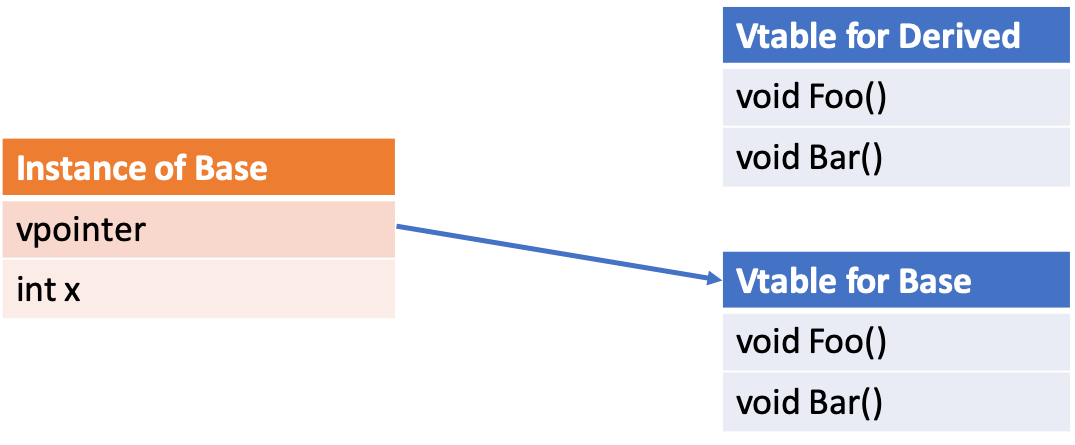
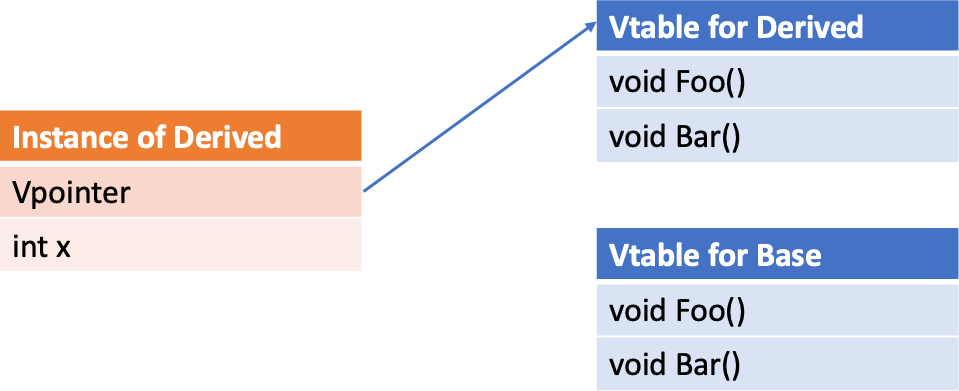
Rework virtual function page in ProgrammingGuide (#532)
* use Base and Derived as class names and changed initialized to constructed

* updated/corrected figures

* small mixup in graphics

* misleading arrow starting points in some cases

* straighten out naming to V...

* capital V in Vpointer in images

* forgot some

diff --git a/docs/source/ProgrammingGuide/Kokkos-and-Virtual-Functions.md b/docs/source/ProgrammingGuide/Kokkos-and-Virtual-Functions.md
@@ -7,21 +7,21 @@ Due to oddities of GPU programming, the use of virtual functions in Kokkos paral
 In GPU programming, you might have run into the bug of calling a host function from the device. A similar thing can happen for subtle reasons in code using virtual functions. Consider the following code
 
 ```c++
-class ClassWithVirtualFunctions : public SomeBase {
+class Derived : public Base {
   /** fields */
   public:
-  KOKKOS_FUNCTION virtual void virtualFunction(){
+  KOKKOS_FUNCTION virtual void Bar(){
     // TODO: implement all of physics
   } 
 };
 
-ClassWithVirtualFunctions* hostClassInstance = new hostClassInstance();
-ClassWithVirtualFunction*  deviceClassInstance;
-cudaMalloc((void**)&deviceClassInstance, sizeof(ClassWithVirtualFunction));
-cudaMemcpy(deviceClassInstance, hostClassInstance, sizeof(ClassWithVirtualFunction), cudaMemcpyHostToDevice);
+Base* hostClassInstance = new Derived();
+Base* deviceClassInstance;
+cudaMalloc((void**)&deviceClassInstance, sizeof(Derived));
+cudaMemcpy(deviceClassInstance, hostClassInstance, sizeof(Derived), cudaMemcpyHostToDevice);
 
 Kokkos::parallel_for("DeviceKernel", SomeCudaPolicy, KOKKOS_LAMBDA(const int i) {
-  deviceClassInstance->virtualFunction();
+  deviceClassInstance->Bar();
 });
 ```
 
@@ -29,13 +29,13 @@ At a glance this should be fine, we've made a device instance of a class, copied
 
 ## V-Tables, V-Pointers, V-ery annoying with GPUs
 
-Virtual functions allow a program to handle Derived classes through a pointer to their Base class and have things work as they should. To make this work, the compiler needs some way to identify whether a pointer which is nominally to a Base class really is a pointer to the Base, or whether it's really a pointer to any Derived class. This happens through VPointers and VTables. For every class with virtual functions, there is one VTable shared among all instances, this table contains function pointers for all the virtual functions the class implements. 
+Virtual functions allow a program to handle Derived classes through a pointer to their Base class and have things work as they should. To make this work, the compiler needs some way to identify whether a pointer which is nominally to a Base class really is a pointer to the Base, or whether it's really a pointer to any Derived class. This happens through Vpointers and Vtables. For every class with virtual functions, there is one Vtable shared among all instances, this table contains function pointers for all the virtual functions the class implements. 
 
 ![VTable](./figures/VirtualFunctions-VTables.png)
 
-Okay, so now we have VTables, if a class knows what type it is it could call the correct function. But how does it know?
+Okay, so now we have Vtables, if a class knows what type it is it could call the correct function. But how does it know?
 
-Remember that we have one VTable shared amongst all instances of a type. Each instance, however, has a hidden member called the VPointer, which on initialization the compiler points at the correct table. So a call to a virtual function simply dereferences that pointer, and then indexes into the VTable to find the precise virtual function called.
+Remember that we have one Vtable shared amongst all instances of a type. Each instance, however, has a hidden member called the Vpointer, which the compiler points at construction to the correct Vtable. So a call to a virtual function simply dereferences that pointer, and then indexes into the Vtable to find the precise virtual function called.
 
 ![VPointer](./figures/VirtualFunctions-VPointers.png)
 
@@ -45,34 +45,43 @@ Credit: the content of this section is adapted from Pablo Arias [here](https://p
 
 ## Then why doesn't my code work?
 
-The reason the intro code might break is that when dealing with GPU-compatible classes with virtual functions, there isn't one VTable, but two. The first has the host versions of the virtual functions, while the second has the device functions. We're initializing the class on the host, so it points to the host VTable.
+The reason the intro code might break is that when dealing with GPU-compatible classes with virtual functions, there isn't one Vtable, but two. The first holds the host versions of the virtual functions, while the second holds the device functions. 
 
-Our cudaMemcpy faithfully copied all of the members of the class, including the VPointer merrily pointing at host functions, which we then call on the device. 
+![VTableDevice](./figures/VirtualFunctions-VTablesHostDevice.png)
+
+Since we construct the class instance on the host, so it's Vpointer points to the host Vtable.
+
+![VPointerToHost](./figures/VirtualFunctions-VPointerToHost.png)
+
+Our cudaMemcpy faithfully copied all of the members of the class, including the Vpointer merrily pointing at host functions, which we then call on the device. 
 
 ## How to fix this
 
-The problem here is that we are initializing the class on the Host. If we were initializing on the Device, we'd get the correct VPointer, and thus the correct functions. In pseudocode, we want to move from
+The problem here is that we are constructing the class on the Host. If we were constructing on the Device, we'd get the correct Vpointer, and thus the correct functions (but only for calls on the device). In pseudocode, we want to move from
 
 ```c++
-Instance* hostInstance = new Instance(); // allocate and initialize host
-Instance* deviceInstance; // cudaMalloc'd to allocate
+Base* hostInstance = new Derived(); // allocate and initialize host
+Base* deviceInstance; // cudaMalloc'd to allocate
 cudaMemcpy(deviceInstance, hostInstance); // to initialize the deivce
 Kokkos::parallel_for(... {
   // use deviceInstance
 });
 ```
 
-To one where we initialize on the device using a technique called `placement new`
+To one where we construct on the device using a technique called `placement new`
 
 ```c++
-Instance* deviceInstance; // cudaMalloc'd to allocate it
+Base* deviceInstance; // cudaMalloc'd to allocate it
 Kokkos::parallel_for(... {
-  new((Instance*)deviceInstance) Instance(); // initialize an instance, and place the result in the pointer deviceInstance
+  new((Derived*)deviceInstance) Derived(); // construct an instance in the place, the pointer deviceInstance points to
 });
 ```
 
-This code is extremely ugly, but leads to a properly initialized instance of the class. Note that like with other uses of `new`, you need to later `free` the memory
+This code is extremely ugly, but leads to functional virtual function calls on the device. The Vpointer now points to the device Vtable.
 
+![VPointerToDevice](./figures/VirtualFunctions-VPointerToDevice.png)
+
+Note that like with other uses of `new`, you need to later `free` the memory.
 For a full working example, see [the example in the repo](https://github.com/kokkos/kokkos/blob/master/example/virtual_functions/main.cpp).
 
 ## Complications and Fixes
@@ -80,9 +89,9 @@ For a full working example, see [the example in the repo](https://github.com/kok
 The first problem people run into with this is that they want to initialize some fields or nested classes based on host data before moving data down to the device
 
 ```c++
-Instance* hostInstance = new Instance(); // allocate and initialize host
+Base* hostInstance = new Derived(); // allocate and initialize host
 hostInstance->setAField(someHostValue);
-Instance* deviceInstance; // cudaMalloc'd to allocate
+Base* deviceInstance; // cudaMalloc'd to allocate
 cudaMemcpy(deviceInstance, hostInstance); // to initialize the deivce
 Kokkos::parallel_for(... {
   // use deviceInstance
@@ -92,50 +101,50 @@ Kokkos::parallel_for(... {
 We can't translate this easily, the naive translation would be
 
 ```c++
-Instance* deviceInstance; // cudaMalloc'd to allocate it
+Base* deviceInstance; // cudaMalloc'd to allocate it
 Kokkos::parallel_for(... {
-  new((Instance*)deviceInstance) Instance(); // initialize an instance, and place the result in the pointer deviceInstance
+  new((Derived*)deviceInstance) Derived(); // initialize an instance, and place the result in the pointer deviceInstance
   deviceInstance->setAField(someHostValue);
 });
 ```
 
-Which would crash for accessing the host value `someHostValue` on the device. The most productive solution we've found in these cases is to allocate the class in UVM, initialize it on the device, and then fill in fields on the host. To wit:
+Which would crash for accessing the host value `someHostValue` on the device (or this value would need to be copied into the `parallel_for`). The most productive solution we've found in these cases is to allocate the class in `SharedSpace`, initialize it on the device, and then fill in fields on the host. To wit:
 
 ```c++
-Instance* deviceInstance = Kokkos::kokkos_malloc<Kokkos::CudaUVMSpace>(sizeof(Instance));
+Base* deviceInstance = Kokkos::kokkos_malloc<Kokkos::SharedSpace>(sizeof(Derived));
 Kokkos::parallel_for(... {
-  new((Instance*)deviceInstance) Instance(); // initialize an instance, and place the result in the pointer deviceInstance
+  new((Derived*)deviceInstance) Derived(); // construct an instance in the place the the pointer deviceInstance points to
 });
 deviceInstance->setAField(someHostValue); // set some field on the host
 ```
 
-This is the solution that the code teams we have talked to have said is the most productive way to solve the problem.
+This is the solution that the code teams we have talked to have said is the most productive way to solve the problem. Nevertheless, it should be kept in mind, that this restricts virtual function calls to the device.
 
 ## But what if I do not really need the V-Tables on the device side?
-Consider the following example which calls the `virtual operator()` on the device from a pointer of derived class type.
+Consider the following example which calls the `virtual Bar()` on the device from a pointer of derived class type.
 One might think this should work because no V-Table lookup on the device is neccessary.
 ```c++
 #include <Kokkos_Core.hpp>
 #include <cstdio>
 
-struct Interface
+struct Base
 {
     KOKKOS_DEFAULTED_FUNCTION
-    virtual ~Interface() = default;
+    virtual ~Base() = default;
 
     KOKKOS_FUNCTION
-    virtual void operator()( const size_t) const = 0;
+    virtual void Bar() const = 0;
 };
 
-struct Implementation : public Interface
+struct Derived : public Base
 {
     KOKKOS_FUNCTION
-    void operator()(const size_t i) const override
-    { printf("%zu from Implementation\n", i); }
+    void Bar() const override
+    { printf("Hello from Derived\n"); }
 
     void apply(){
         Kokkos::parallel_for("myLoop",10,
-            KOKKOS_CLASS_LAMBDA (const size_t i) { this->operator()(i); }
+            KOKKOS_CLASS_LAMBDA (const size_t i) { this->Bar(); }
         );
     }
 };
@@ -144,8 +153,8 @@ int main (int argc, char *argv[])
 {
     Kokkos::initialize(argc,argv);
     {
-      auto implementationPtr = std::make_shared<Implementation>();
-      implementationPtr->apply();
+      auto derivedPtr = std::make_shared<Derived>();
+      derivedPtr->apply();
       Kokkos::fence();
     }
     Kokkos::finalize();
@@ -153,23 +162,23 @@ int main (int argc, char *argv[])
 ```
 ### Why is this not portable?
 
-Inside the `parallel_for` the `operator()` is called. As `Implementation` derives from the pure virtual class `Interface`, the 'operator()' is marked `override`.
+Inside the `parallel_for` `Bar()` is called. As `Derived` derives from the pure virtual class `Base`, the 'Bar()' function is marked `override`.
 On ROCm 5.2 this results in a memory access violation.
-When executing the `this->operator()(i)` call, the runtime looks into the V-Table and dereferences a host function pointer on the device.
+When executing the `this->Bar()` call, the runtime looks into the V-Table and dereferences a host function pointer on the device.
 
 ### But if that is the case, why does it work with NVCC?
 
-Notice, that the `parallel_for` is called from a pointer of type `Implementation` and not a pointer of type `Interface` pointing to an `Implementation` object.
-Thus, no V-Table lookup for the `operator()` would be necessary as it can be deduced from the context of the call that it will be `Implementation::operator()`.
-But here it comes down to how the compiler handles the lookup. NVCC understands that the call is coming from an `Implementation` object and thinks: "Oh, I see, that you are calling from an `Implementation` object, I know it will be the `operator()` in this class scope, I will do this for you".
+Notice, that the `parallel_for` is called from a pointer of type `Derived` and not a pointer of type `Base` pointing to an `Derived` object.
+Thus, no V-Table lookup for the `Bar()` would be necessary as it can be deduced from the context of the call that it will be `Derived::Bar()`.
+But here it comes down to how the compiler handles the lookup. NVCC understands that the call is coming from an `Derived` object and thinks: "Oh, I see, that you are calling from an `Derived` object, I know it will be the `Bar()` in this class scope, I will do this for you".
 ROCm, on the other hand, sees your call and thinks “Oh, this is a call to a virtual method, I will look that up for you” - failing to dereference the host function pointer in the host virtual function table.
 
 ### How to solve this?
 Strictly speaking, the observed behavior on NVCC is an optimization that uses the context information to avoid the V-Table lookup.
 If the compiler does not apply this optimization, you can help in different ways by providing additional information. Unfortunately, none of these strategies is fully portable to all backends.
 
-- Tell the compiler not to look up any function name in the V-Table when calling `operator()` by using [qualified name lookup](https://en.cppreference.com/w/cpp/language/qualified_lookup). For this, you tell the compiler which function you want by spelling out the class scope in which the function should be found e.g. `this->Implementation::operator() (i);`. This behavior is specified in the C++ Standard. Nevertheless, some backends are not fully compliant to the Standard.
-- Changing the `override` to `final` on the `operator()` in the `Implementation` class. This tells the compiler the `operator()` is not changing in derived objects. Many compilers do use this in optimization and deduce which function to call without the V-Table. Nevertheless, this might only work with certain compilers, as this effect of adding `final` is not specified in the C++ Standard. 
+- Tell the compiler not to look up any function name in the V-Table when calling `Bar()` by using [qualified name lookup](https://en.cppreference.com/w/cpp/language/qualified_lookup). For this, you tell the compiler which function you want by spelling out the class scope in which the function should be found e.g. `this->Derived::Bar();`. This behavior is specified in the C++ Standard. Nevertheless, some backends are not fully compliant to the Standard.
+- Changing the `override` to `final` on the `Bar()` in the `Derived` class. This tells the compiler `Bar()` is not changing in derived objects. Many compilers do use this in optimization and deduce which function to call without the V-Table. Nevertheless, this might only work with certain compilers, as this effect of adding `final` is not specified in the C++ Standard. 
 - Similarly, the entire derived class `Implementation` can be marked `final`. This is compiler dependent too, for the same reasons.
 
 ## Questions/Follow-up
